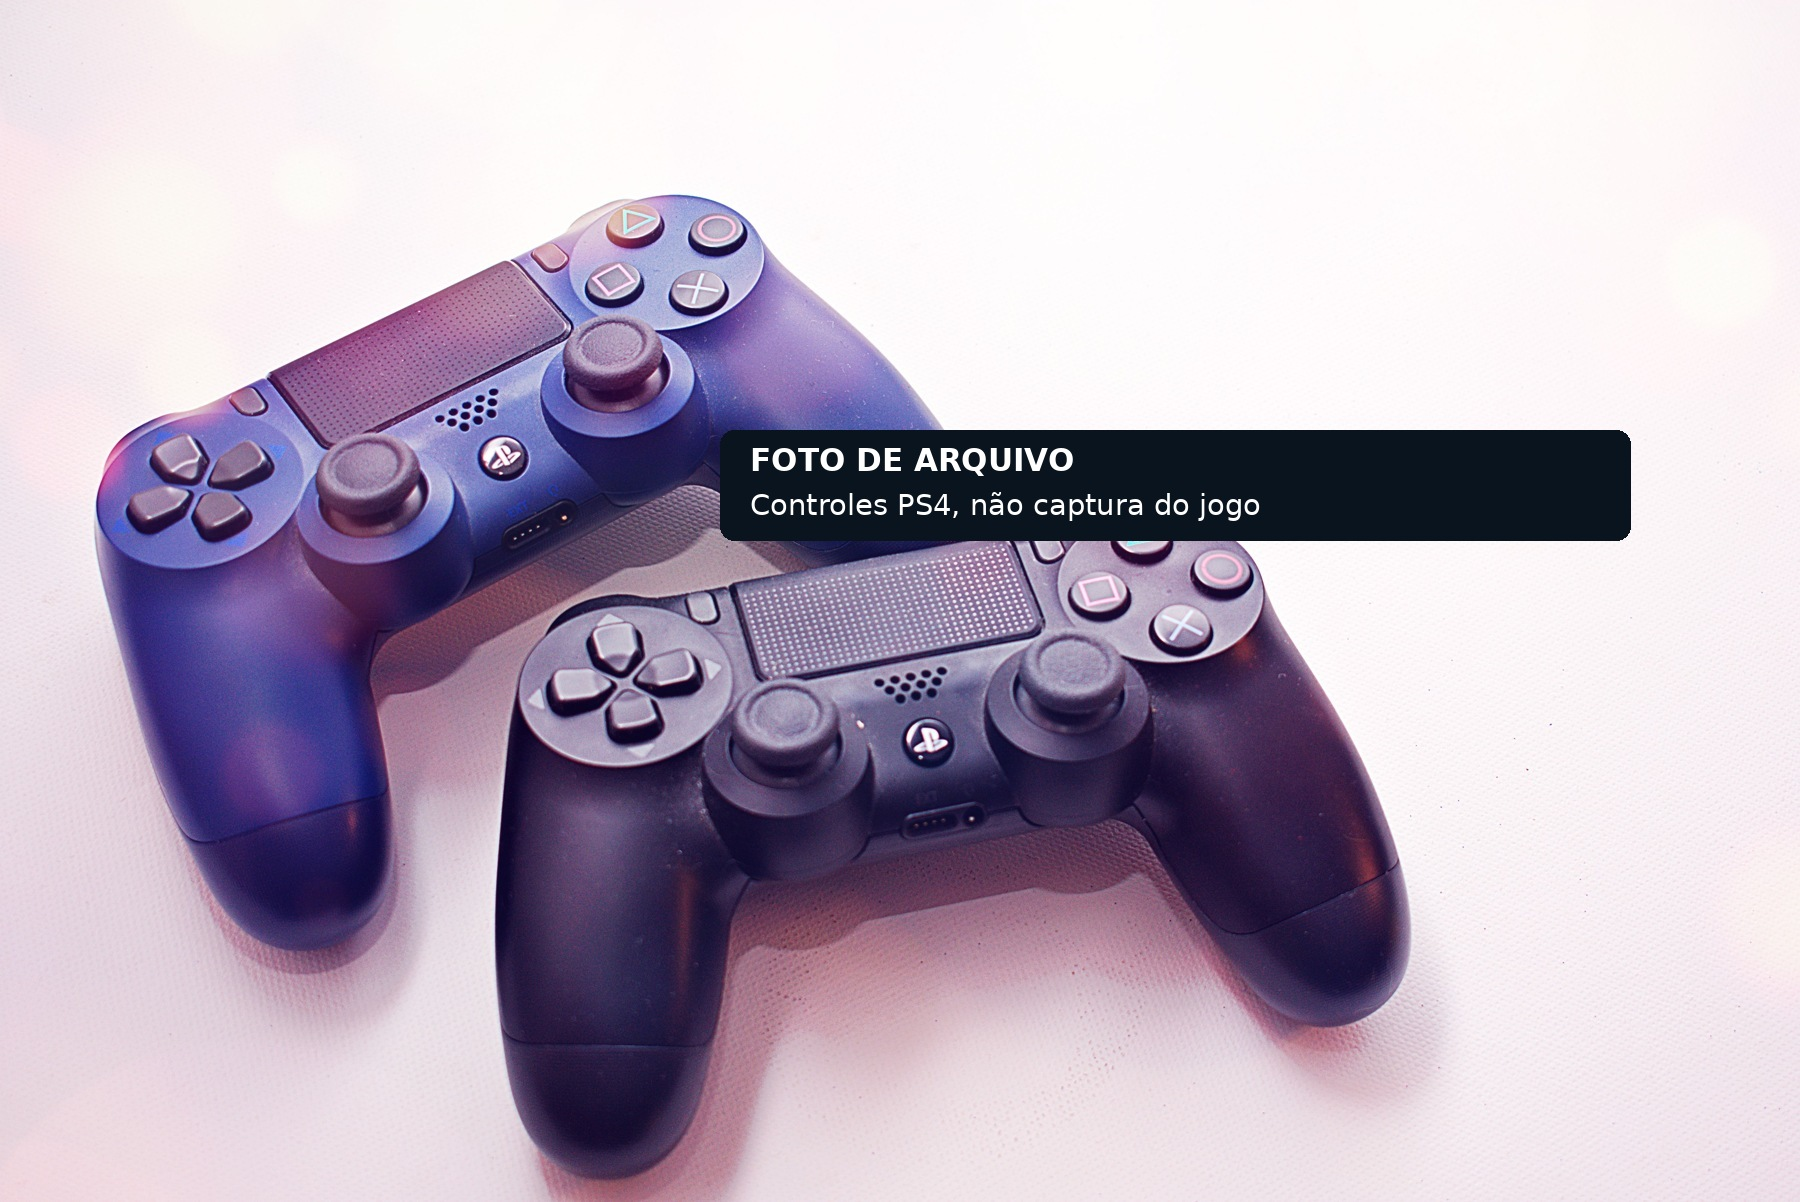
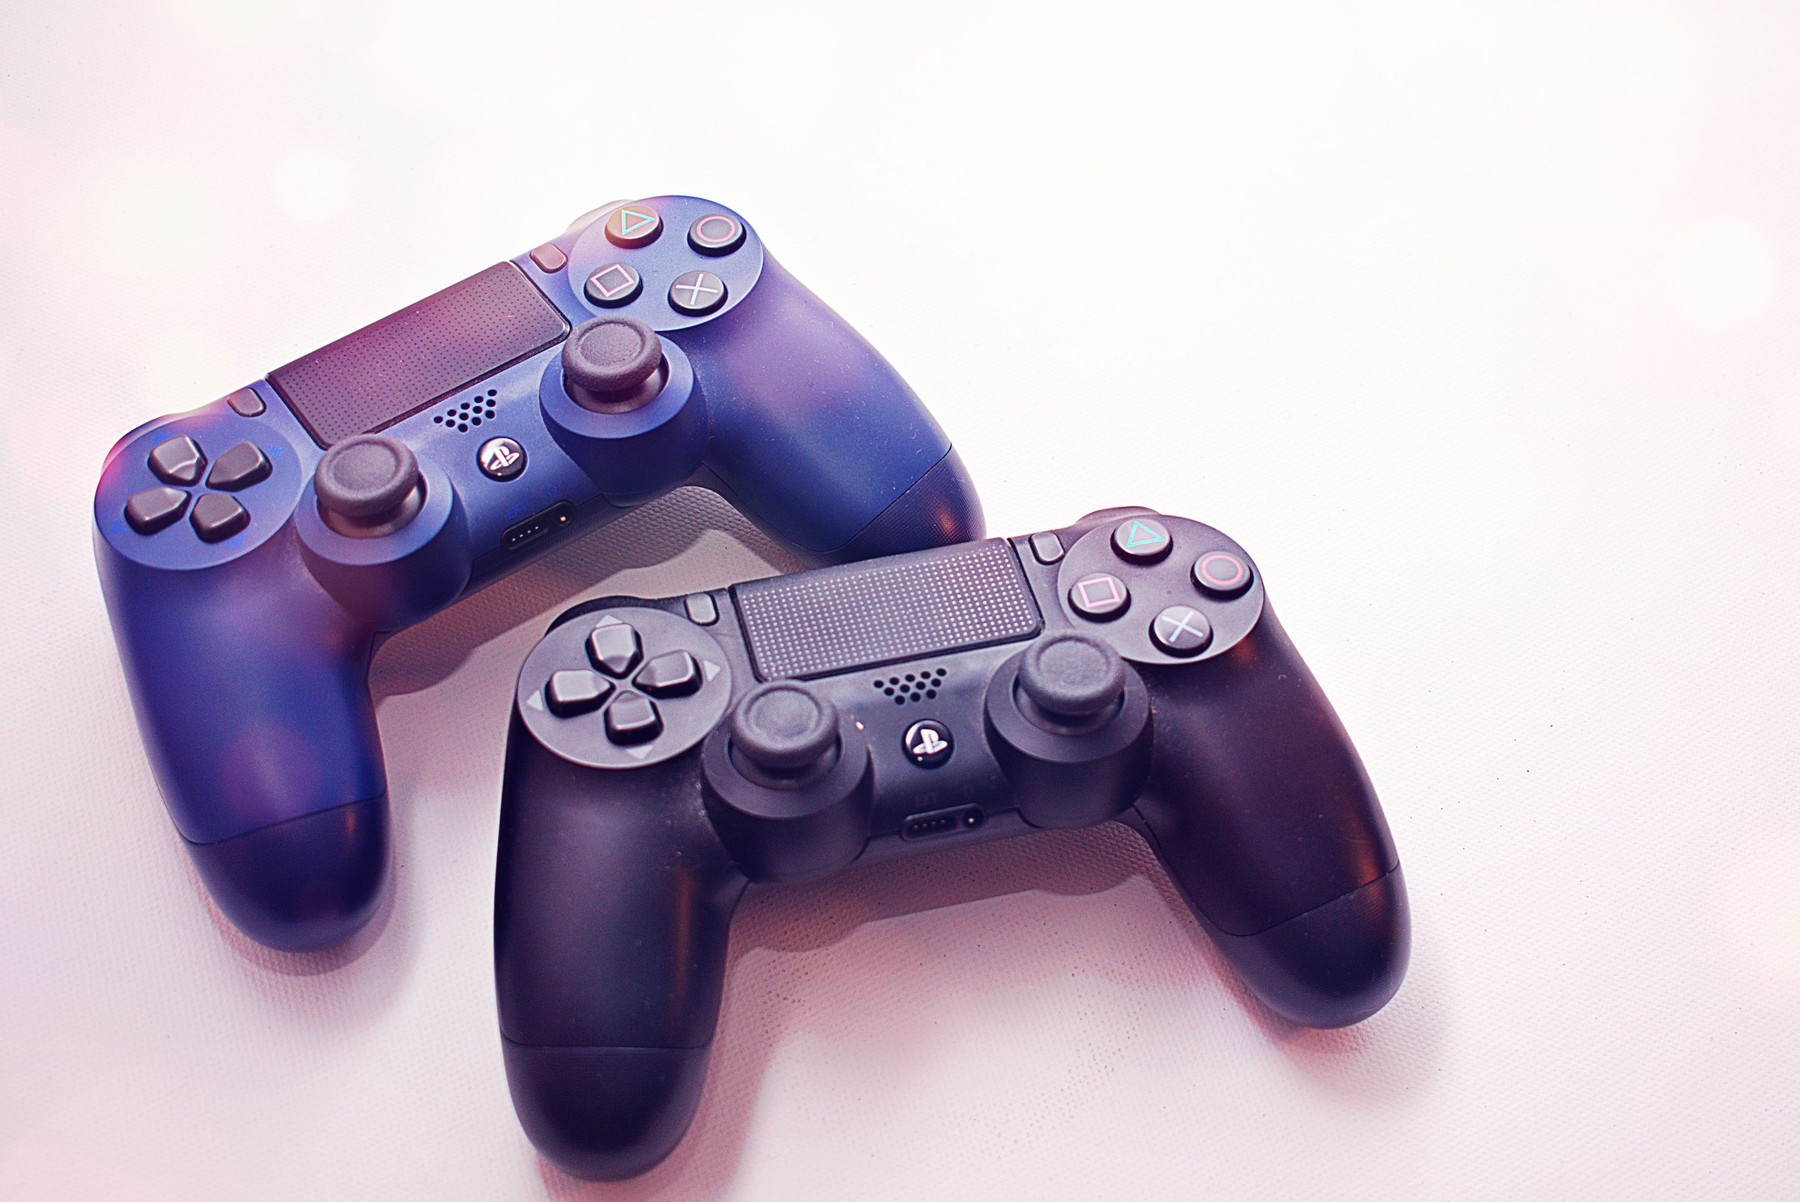
Capas sem texto gravado: regera 14 a partir do original e crédito só na legenda
Allow-Cover-Change: ayn-odin-2-setup-emulacao
Allow-Cover-Change: desligar-historico-localizacao-google-android
Allow-Cover-Change: fable-deepwood-dash-preco-brasil
Allow-Cover-Change: gemini-google-wallet-financas-eua-brasil
Allow-Cover-Change: god-of-war-sons-sparta-ps4-hermes-erebus
Allow-Cover-Change: importar-ayaneo-ou-ayn-brasil
Allow-Cover-Change: ios-27-quais-iphones-e-como-atualizar
Allow-Cover-Change: ps5-slim-vale-a-pena-2026-brasil
Allow-Cover-Change: rainbow-six-siege-vital-signal-doc-ranqueadas
Allow-Cover-Change: razer-soma-pro-haptics-brasil
Allow-Cover-Change: sin-reloaded-1-2-saves-antigos-controles
Allow-Cover-Change: weixin-pay-pix-turistas-chineses-brasil
Allow-Cover-Change: xbox-original-pc-25-jogos-brasil
Allow-Cover-Change: xbox-playback-brasil-como-ver-historico

diff --git a/AGENTS.md b/AGENTS.md
@@ -20,6 +20,10 @@ Só abra o PR se esse comando passar com o mesmo corpo que vai no PR. O workflow
 
 Antes de escrever `coverAlt` ou o alt de qualquer imagem, abra o arquivo da imagem que vai no PR e descreva só o que aparece nele: pessoas, roupa, cenário, objetos, texto visível. Não descreva a partir do título da página de origem, da legenda do Commons ou de outra foto da mesma série. Se a imagem mudar, reescreva o alt.
 
+### Capa sem texto na imagem
+
+Não escreva nem sobreponha nada na imagem da capa: crédito, selo, "foto ilustrativa", "arquivo", nome da fonte ou licença. A capa é a foto original recortada e redimensionada (1200 px ou mais de largura). Crédito, licença e aviso de foto ilustrativa ficam só no `coverCredit`, que o site mostra como legenda pequena abaixo da foto; o card de OG usa a mesma capa limpa. A marca do The Zero é aplicada por CSS.
+
 ### FACT-CHECK
 
 Abra a fonte primária de cada afirmação antes de marcar `ok`. Fonte primária é o documento original: página da empresa, nota oficial, filing, página da loja, transcrição, paper. Número, data, nome e citação entram cada um na própria linha. Não marque `ok` num dado que você não abriu. Se o original está público, não use como fonte um texto que só republica a notícia.

diff --git a/docs/cover-lock.md b/docs/cover-lock.md
@@ -21,6 +21,7 @@ Ao lado da capa fica o original sem marca: `public/images/posts/<slug>/cover.src
 - `scripts/derive-covers.mjs`: não gera derivado público do `cover.src.*`.
 - `scripts/social/compose_ig_post.py` e, no box, `/workspace/ig-thezero/compose_ig_post.py` e `make_video.py`: se existir `cover.src.*` ao lado da capa, a arte usa esse arquivo e aplica a marca por cima dele. Nunca derivam de uma imagem já gerada.
 - No site, a marca do The Zero é aplicada por CSS (`WatermarkedPhoto`), não gravada no arquivo.
+- Nenhum texto gravado na capa: crédito e aviso de foto ilustrativa ficam no `coverCredit` (legenda abaixo da foto), nunca dentro da imagem.
 
 ## Checagem no CI
 
